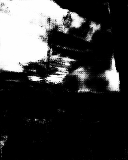
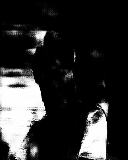
change src to camera

diff --git a/Assets/script/DlCase2/DlCase2Runner.cs b/Assets/script/DlCase2/DlCase2Runner.cs
@@ -137,22 +137,21 @@ namespace DLTool {
             {
                 if (mAccessCameraImage)
                 {
-                    // Vuforia.Image image = CameraDevice.Instance.GetCameraImage(mPixelFormat);
-                    // ORIGINAL_WIDTH = image.Width;
-                    // ORIGINAL_HEIGHT = image.Height;
-                    // if (image != null)
-                    // {
+                    Vuforia.Image image = CameraDevice.Instance.GetCameraImage(mPixelFormat);
+                    ORIGINAL_WIDTH = image.Width;
+                    ORIGINAL_HEIGHT = image.Height;
+                    if (image != null)
+                    {
                         if (counter == 100)
                         {
-                            //Texture2D texture = new Texture2D(image.Width, image.Height, TextureFormat.RGBA32, false);
-                            //image.CopyToTexture(texture);
-                            ORIGINAL_WIDTH = textureMap.width;
-                            ORIGINAL_HEIGHT = textureMap.height;
-                            Debug.Log(ORIGINAL_WIDTH);
-                            Debug.Log(ORIGINAL_HEIGHT);
+                            Texture2D texture = new Texture2D(image.Width, image.Height, TextureFormat.RGBA32, false);
+                            image.CopyToTexture(texture);
+                            texture = ImageTool.ScaleTexture(texture, IMAGE_WIDTH, IMAGE_HEIGHT);
+                            // ORIGINAL_WIDTH = textureMap.width;
+                            // ORIGINAL_HEIGHT = textureMap.height;
 
-                            Texture2D texture = new Texture2D(textureMap.width, textureMap.height, TextureFormat.RGBA32, false);
-                            texture = ImageTool.ScaleTexture(textureMap, IMAGE_WIDTH, IMAGE_HEIGHT);
+                            // Texture2D texture = new Texture2D(textureMap.width, textureMap.height, TextureFormat.RGBA32, false);
+                            // texture = ImageTool.ScaleTexture(textureMap, IMAGE_WIDTH, IMAGE_HEIGHT);
                             Color32[] pixels = texture.GetPixels32();
                             Detection model = new Detection();
                             Texture2D result = model.Segmentation(pixels);
@@ -170,7 +169,7 @@ namespace DLTool {
                             // }
                             // writer.Close();
                             result = ImageTool.ScaleTexture(result, ORIGINAL_WIDTH, ORIGINAL_HEIGHT);
-                            Dictionary<int, int> line = ImageTool.GetLine(result, 'y', 0.5f);
+                            Dictionary<int, int> line = ImageTool.GetLine(result, 'x', 0.5f);
                             // StreamWriter writer1 = new StreamWriter("./indices.txt", true);
                             List<Vector3> WorldPoints = ImageTool.GetWorldPoints(line);
                             // StreamWriter writer = new StreamWriter("./test.txt", true);
@@ -193,7 +192,7 @@ namespace DLTool {
                         {
                         counter += 1;
                         }
-                    // }
+                    }
                 }
             }
         }

diff --git a/Assets/script/ImageTool.cs b/Assets/script/ImageTool.cs
@@ -74,34 +74,34 @@ namespace DLTool
 
       Dictionary<int, int> line = new Dictionary<int, int>();
 
-      StreamWriter writer = new StreamWriter("./line.txt", true);
+      // StreamWriter writer = new StreamWriter("./line.txt", true);
       foreach (int key in res.Keys)
       {
-        writer.Write("y: ");
-        writer.Write(key);
-        writer.Write(", ");
-        writer.Write("x: (");
-        writer.Write(res[key].Item1);
-        writer.Write(", ");
-        writer.Write(res[key].Item2);
-        writer.Write(")\n");        
+        // writer.Write("y: ");
+        // writer.Write(key);
+        // writer.Write(", ");
+        // writer.Write("x: (");
+        // writer.Write(res[key].Item1);
+        // writer.Write(", ");
+        // writer.Write(res[key].Item2);
+        // writer.Write(")\n");        
 
         var point = (float)res[key].Item1 * (1.0f - ratio) + (float)res[key].Item2 * ratio;
 
         line.Add(key, (int)point);
       }
-      writer.Close();
+      // writer.Close();
 
-      writer = new StreamWriter("./test.txt", true);
-      foreach (int key in line.Keys) {
-        writer.Write("x: ");
-        writer.Write(key);
-        writer.Write(", ");
-        writer.Write("y: ");
-        writer.Write(line[key]);
-        writer.Write("\n");
-      }
-      writer.Close();
+      // writer = new StreamWriter("./test.txt", true);
+      // foreach (int key in line.Keys) {
+      //   writer.Write("x: ");
+      //   writer.Write(key);
+      //   writer.Write(", ");
+      //   writer.Write("y: ");
+      //   writer.Write(line[key]);
+      //   writer.Write("\n");
+      // }
+      // writer.Close();
 
       return line;
     }
@@ -114,7 +114,7 @@ namespace DLTool
       {
         int y = line[x];
 
-        res.Add(DlCase2Runner.cam.ScreenToWorldPoint(new Vector3(x, y, 1.0f)));
+        res.Add(DlCase2Runner.cam.ScreenToWorldPoint(new Vector3(x, y, 10.0f)));
       }
 
       return res;
